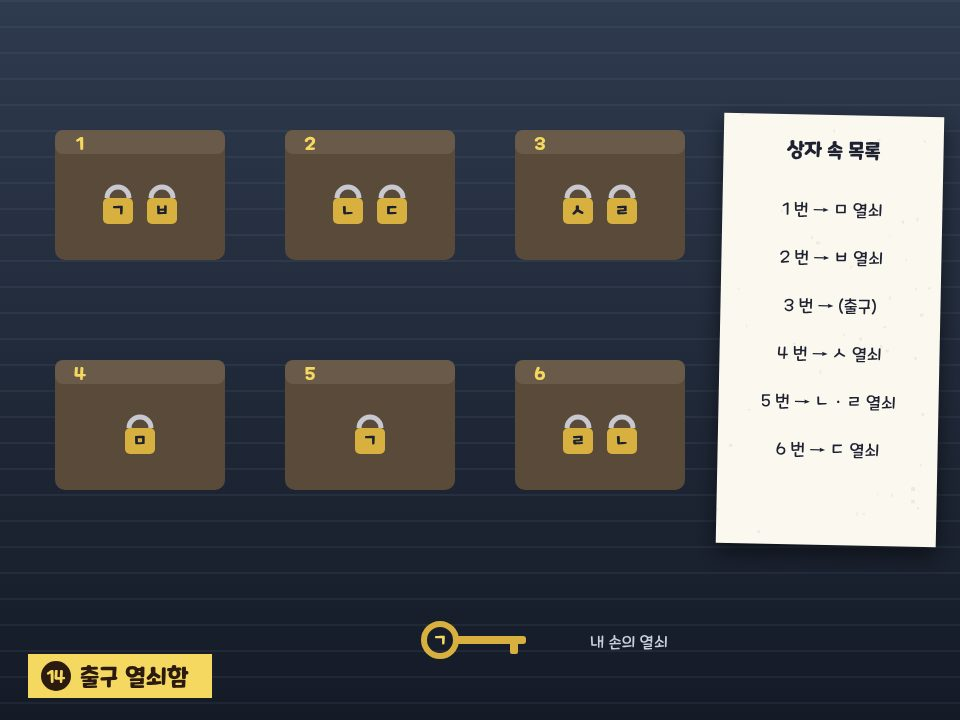
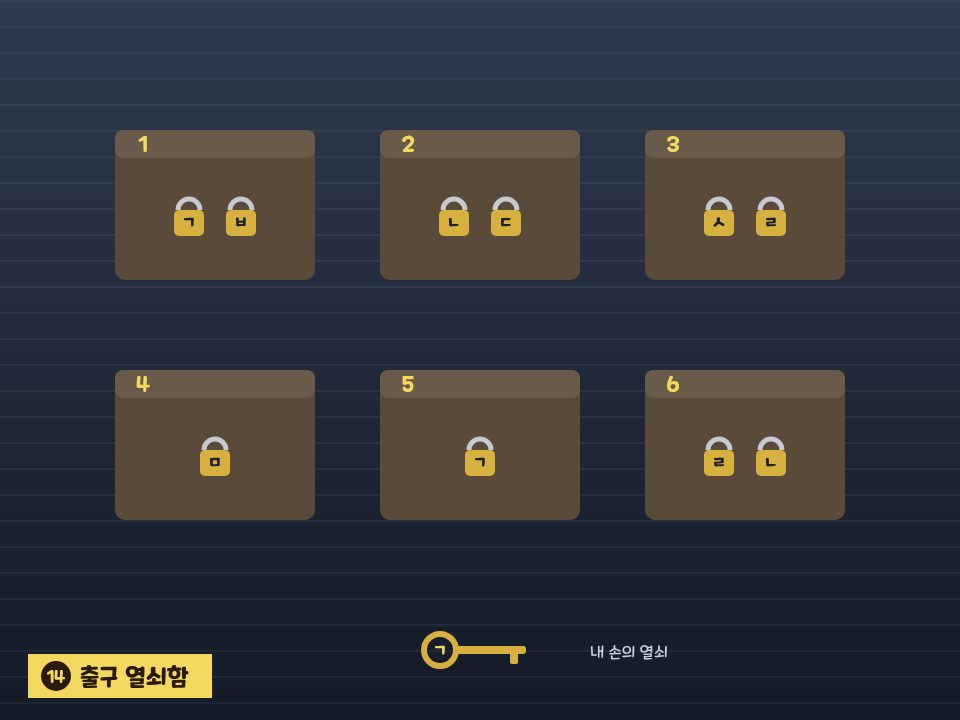
콩이 방 문제를 캡처로 풀기 어렵게: 8번 자국 움짤 · 10번 걸린 시간 기준을 판결문 단서로 · 11번 손전등 · 14번 상자 목록을 증거물 목록 단서로
Claude-Session: https://claude.ai/code/session_01GyJEdcFjE828PDvtvLXbrE

diff --git a/public/index.html b/public/index.html
@@ -6802,13 +6802,20 @@ const darkHintOpen = (r, pz) => ((r.wr||{})[pz.id]|0) >= DARK_HINT;
 const darkHintBtn = (r, pz) => darkHintOpen(r, pz) ? '<button class="mini" id="dkHint">힌트 보기</button>' : '<button class="mini" id="dkHint" disabled style="opacity:.45">힌트는 두 번 틀리면 열려요</button>';
 function darkHintWire(npc, pz){ const b = $('dkHint'); if (b) b.onclick = () => { if (!darkHintOpen(roomOf(npc), pz)) return; const t = $('dkHintT'); t.textContent = pz.hint || '힌트가 없어요'; t.hidden = false; }; }
 function darkTriesTxt(r, pz){ const n = ((r.wr||{})[pz.id]|0), left = DARK_FREE - n; return left > 0 ? `틀려도 되는 기회 ${left} 번 · 그 뒤로는 틀릴 때마다 남은 시간 10 분이 줄어요` : '이제 틀릴 때마다 남은 시간이 10 분씩 줄어요'; }
+// ⑪ 콩이 방명록: 손전등으로 비춘 곳만 보여요 (손가락 · 마우스를 따라와요)
+function darkLightWire(){ const w = $('npcPanel').querySelector('.dk-imw'); if (!w) return; const cv = document.createElement('canvas'); cv.className = 'dk-lt'; cv.style.cssText = 'position:absolute;left:0;top:0;width:100%;height:100%;touch-action:none;cursor:none;border-radius:8px'; w.appendChild(cv);
+  let px = null, py = null; const draw = () => { const W = w.clientWidth, H = w.clientHeight; if (!W || !H) return; if (cv.width !== W || cv.height !== H){ cv.width = W; cv.height = H; } const c = cv.getContext('2d'); c.globalCompositeOperation = 'source-over'; c.fillStyle = '#08060c'; c.fillRect(0, 0, W, H);
+    if (px === null){ px = W*.22; py = H*.34; } const R = W*.16, g = c.createRadialGradient(px, py, R*.56, px, py, R); g.addColorStop(0, 'rgba(0,0,0,1)'); g.addColorStop(1, 'rgba(0,0,0,0)'); c.globalCompositeOperation = 'destination-out'; c.fillStyle = g; c.fillRect(px - R, py - R, R*2, R*2); };
+  const at = e => { const b = cv.getBoundingClientRect(); px = e.clientX - b.left; py = e.clientY - b.top; draw(); };
+  cv.addEventListener('pointerdown', e => { try { cv.setPointerCapture(e.pointerId); } catch(_){} at(e); }); cv.addEventListener('pointermove', at);
+  const img = w.querySelector('img'); if (img) img.addEventListener('load', draw); if (window.ResizeObserver) new ResizeObserver(draw).observe(w); draw(); }
 function darkPuzzlePanel(pz){
   const npc = Z().dark; if (!npc) return; const r = roomOf(npc), done = (r.solved || {})[pz.id], lock = !done && darkLocked(pz, r), list = darkPuzzles(npc);
   const owner = (r.asg || {})[pz.id], notMine = !done && owner && owner !== uid && !admin && !pz.film; // 문제는 모두 보고, 답은 맡은 사람만 써요
   const shown = done && (done.ans || pz.a[0] || ''), body = done ? `${darkImgHtml(npc, pz)}<p class="dk-q">${esc(pz.q)}</p><p class="dk-ok">✓ ${esc(String(done.nick || '').slice(0,8))} 님이 풀었어요${shown ? ` · 정답 <b>${esc(shown)}</b>` : ''}</p>`
     : lock ? `<p class="dk-q">굳게 닫혀 있어요. 꿈쩍도 하지 않아요.</p><p class="mnote">어딘가에서 다른 것이 먼저 열려야 할 것 같아요.</p>`
     : `${darkImgHtml(npc, pz)}<p class="dk-q">${esc(pz.q)}</p>${notMine ? `<p class="mnote">✎ 답은 ${players[owner]?.nick ? `<b>${esc(String(players[owner].nick).slice(0, 8))}</b> 님만` : '맡은 사람만'} 쓸 수 있어요</p>` : `<div class="dk-ans"><input id="dkIn" maxlength="40" placeholder="정답을 써요" autocomplete="off"><button class="btn" id="dkGo">확인</button></div><p class="mnote" id="dkTries">${darkTriesTxt(r, pz)}</p>`}${darkHintBtn(r, pz)}<p class="mnote" id="dkHintT" hidden></p>${pz.film ? filmBtnHtml(pz.film) : ''}`;
-  openPanel(`${esc(pz.title)} · ${darkSolvedN(r)}/${list.length}`, body + (admin ? '' : `<button class="mini" id="dkBook">단서 수첩 ${clueCount(npc)}/${CLUE_N}</button>`)); darkImgFill($('npcPanel')); if ($('dkBook')) $('dkBook').onclick = () => clueBook(npc);
+  openPanel(`${esc(pz.title)} · ${darkSolvedN(r)}/${list.length}`, body + (admin ? '' : `<button class="mini" id="dkBook">단서 수첩 ${clueCount(npc)}/${CLUE_N}</button>`)); darkImgFill($('npcPanel')); if (pz.light && !done && !lock) darkLightWire(); if ($('dkBook')) $('dkBook').onclick = () => clueBook(npc);
   for (const el of $('npcPanel').querySelectorAll('.dk-img')) el.onclick = () => el.classList.toggle('big'); // 누르면 크게
   if (done || lock) return;
   if (pz.film) filmBtnWire(pz.film);

diff --git a/public/dark.js b/public/dark.js
@@ -414,11 +414,11 @@ function kongiRoom(){
     P(7, '진짜 범인의 쪽지', '쪽지의 이름.', ['민도경'], '첫소리와 받침은 생김새가 달라요'),
     P(8, '신발 자국', '범인의 키 (cm).', ['180', '180cm'], '한 발짝은 타일 대각선'),
     P(9, '목격자 셋', '몇 번?', ['4', '4번'], '증인마다 틀린 것 하나만'),
-    P(10, '통화 기록', '말을 전한 사람.', ['박태오'], '30 분 안 · 민이 먼저 걸어야 해요'),
+    P(10, '통화 기록', '말을 전한 사람.', ['박태오'], '판결문의 햇수만큼 분 안 · 민이 먼저 걸어야 해요'),
     P(11, '섬 방문객 방명록', '서하람의 하트 수.', ['10', '10개'], '19 · 28 · 37 …'),
     P(12, '인형 도안', '꿰매면 나오는 말.', ['나는서하람'], '남는 조각이 셋'),
     P(13, '19 년 뒤 신문', '사진이 찍힌 시각.', ['13', '13시', '13:00', '1300', '1시', '오후1시'], '그림자는 해 반대쪽'),
-    P(14, '출구 열쇠함', '여는 차례 (상자 번호).', ['562143'], '한 번 쓴 열쇠도 남아요'),
+    P(14, '출구 열쇠함', '여는 차례 (상자 번호).', ['562143'], '증거물 목록 단서 · 한 번 쓴 열쇠도 남아요'),
     P(15, '마지막 문', '이름.', ['공태식'], '② ⑥ ⑩'),
-  ] };
+  ].map(p => p.id === 'p08' ? {...p, img:['art/pz/kongi/8.gif']} : p.id === 'p11' ? {...p, light:true} : p) }; // ⑧ 자국이 하나씩 나타나는 움짤 · ⑪ 손전등으로 비춘 곳만 보여요
 }

diff --git a/docs/DARK_STORY.md b/docs/DARK_STORY.md
@@ -714,7 +714,7 @@
 | 11 | 방명록 하트 수 | ⑩ 섬 방문객 명부 (19 년 전 서하람 ♥10) |
 | 12 | 인형 도안 실 따라가기 | ⑪ 반쯤 꿰맨 인형 도안 (하람 · 태식 한 몸) |
 | 13 | 배지 뒤집기 | ⑫ 배지 뒷면 "문 열지 마 — 하람" |
-| 14 | 출구 열쇠함 | ⑬ 출구 문 열쇠 꼬리표 · **노리는 몸** |
+| 14 | 출구 열쇠함 | ⑬ 출구 문 열쇠 꼬리표 · **노리는 몸** · 상자 속 목록은 문제 그림에 없고 단서 ② 증거물 목록의 「열쇠함 메모」에 있어요 |
 | 15 | 마지막 문 앞 | ⑭ 신원 조회 "공태식 · 서하람" → 콩이(태식)가 깨어나요 |
 
 ### 콩이 방 문제 (★5 · 모두 두 단계 이상 · 다른 방과 겹치지 않는 풀이 · 마지막 방)
@@ -728,10 +728,10 @@
 | 5 | 배달 오토바이 | 거리표 여섯 곳 · 10.3 km · 첫 배달 아파트 → 주유소 → 약국 → 가게 만 맞음 (편의점이면 10.2) | 주유소약국 |
 | 6 | 돈 가방 | 돈 흐름 (60 · 40 · 50 · 75 · 80 %) 곱해서 더하기 → 1.5 억 + 2.4 억 | 390 (백만) |
 | 7 | 진짜 범인의 쪽지 | 자모 여덟 · 명단 열넷 중 같은 자모 여덟 (민도경 · 김도연 · 김연도 · 김도녕 · 김동녀 · 임도견 · 김녕도 · 도민역) · 첫소리 · 받침 꼴 | 민도경 |
-| 8 | 신발 자국 | 타일 15 cm · 자국 사이 3 × 4 칸 = 75 cm · 하준서 168 cm 에 70 cm → 같은 비율 | 180 |
+| 8 | 신발 자국 | 타일 15 cm · 자국 사이 3 × 4 칸 = 75 cm · 하준서 168 cm 에 70 cm → 같은 비율 | 180 · 그림은 움짤: 자국이 하나씩 나타났다 사라져요 (한 장 캡처로는 간격을 못 재요) |
 | 9 | 목격자 셋 | 열 명 줄 · 증인마다 넷 중 딱 하나만 틀림 | 4 |
-| 10 | 통화 기록 | 열한 명 모두 사흘 다 나옴 · 민 → ? → 공 30 분 안 · 민이 먼저 · 하루씩 어긋남 (35~50 분 · 먼저 건 전화) | 박태오 |
-| 11 | 섬 방문객 방명록 | 아이 낙서 '더하면 다 똑같아' → 자릿수 합 10 인 점만 작은 수부터 | 10 |
+| 10 | 통화 기록 | 열한 명 모두 사흘 다 나옴 · 민 → ? → 공 30 분 안 · 민이 먼저 · 하루씩 어긋남 (35~50 분 · 먼저 건 전화) | 박태오 · 걸린 시간 기준은 표에 없고 판결문 단서(징역 20 년 = 20 분) · 표에 25~30 분 걸린 사람도 있어 기준을 모르면 후보가 여럿 |
+| 11 | 섬 방문객 방명록 | 아이 낙서 '더하면 다 똑같아' → 자릿수 합 10 인 점만 작은 수부터 | 10 · 방명록이 어둡게 가려져 있고 손전등(손가락 · 마우스)으로 비춘 곳만 보여요 |
 | 12 | 인형 도안 | 조각 여덟 (나-는 꿰맴) · 홈 수 잇기 · 나는공태식 은 5 ≠ 6 으로 끊김 | 나는서하람 |
 | 13 | 19 년 뒤 신문 | 그림자 12 장 × 60 cm = 7.2 m → 1.2 배 → 11 시 · 13 시 (30 분 표) · 그림자 동쪽 → 오후 | 13 시 |
 | 14 | 출구 열쇠함 | ㄱ 열쇠로 시작 · 상자마다 자물쇠 · 안에 든 열쇠 · 한 번에 하나씩만 열림 (답 하나뿐 확인) | 562143 |
